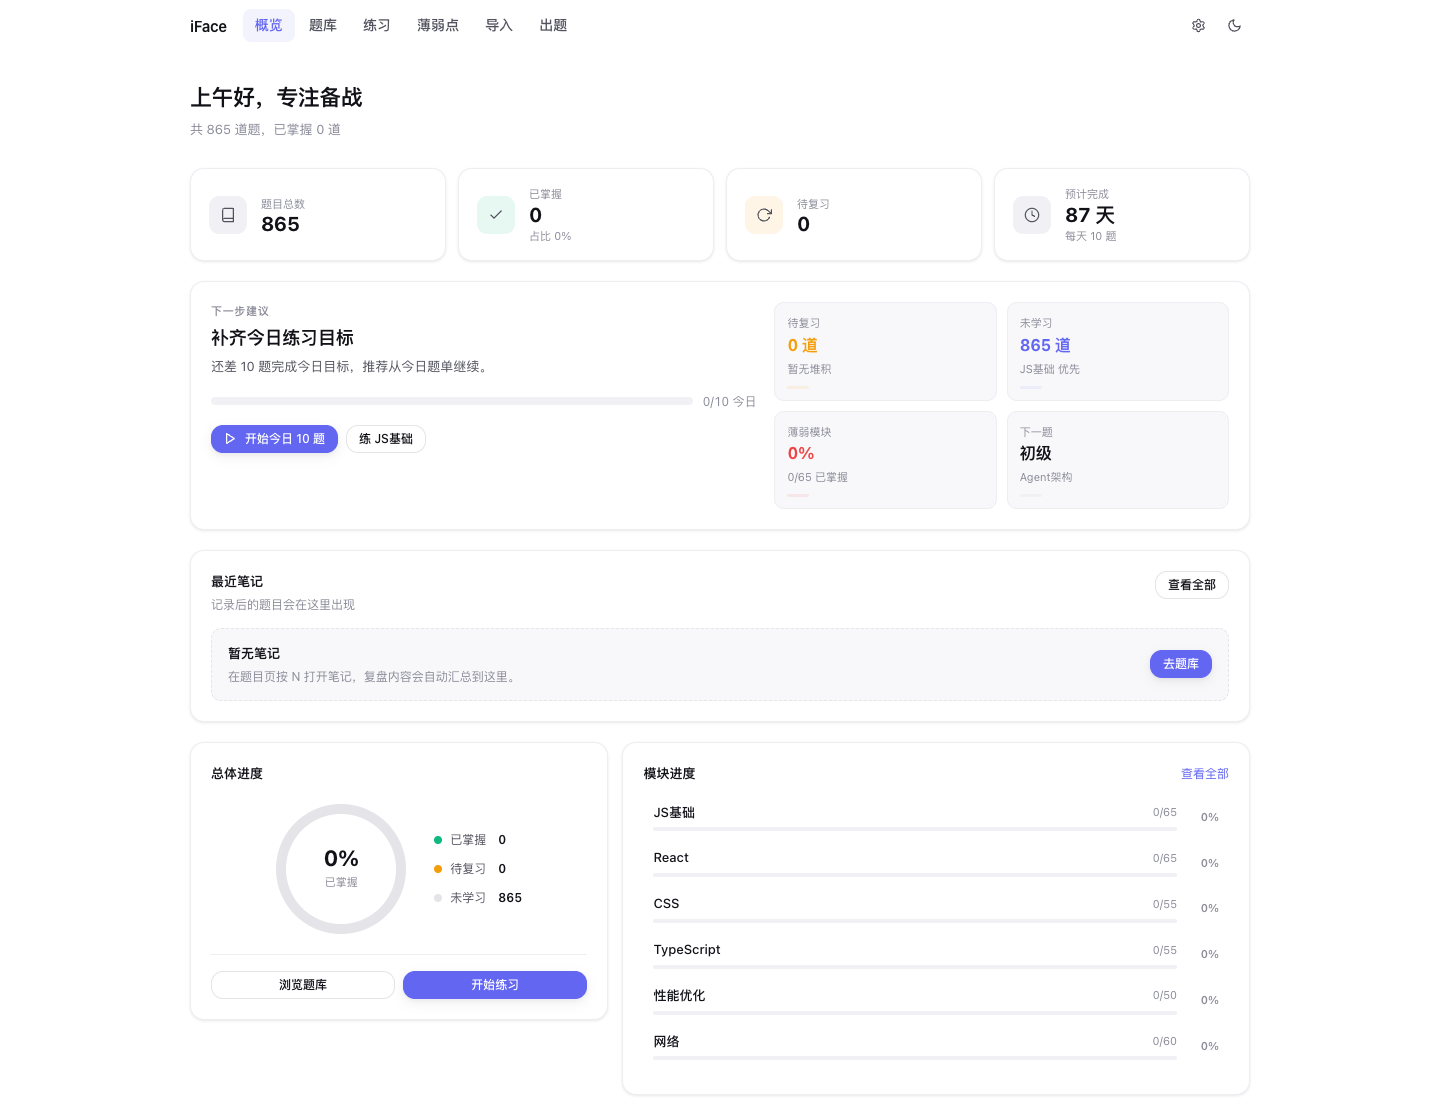
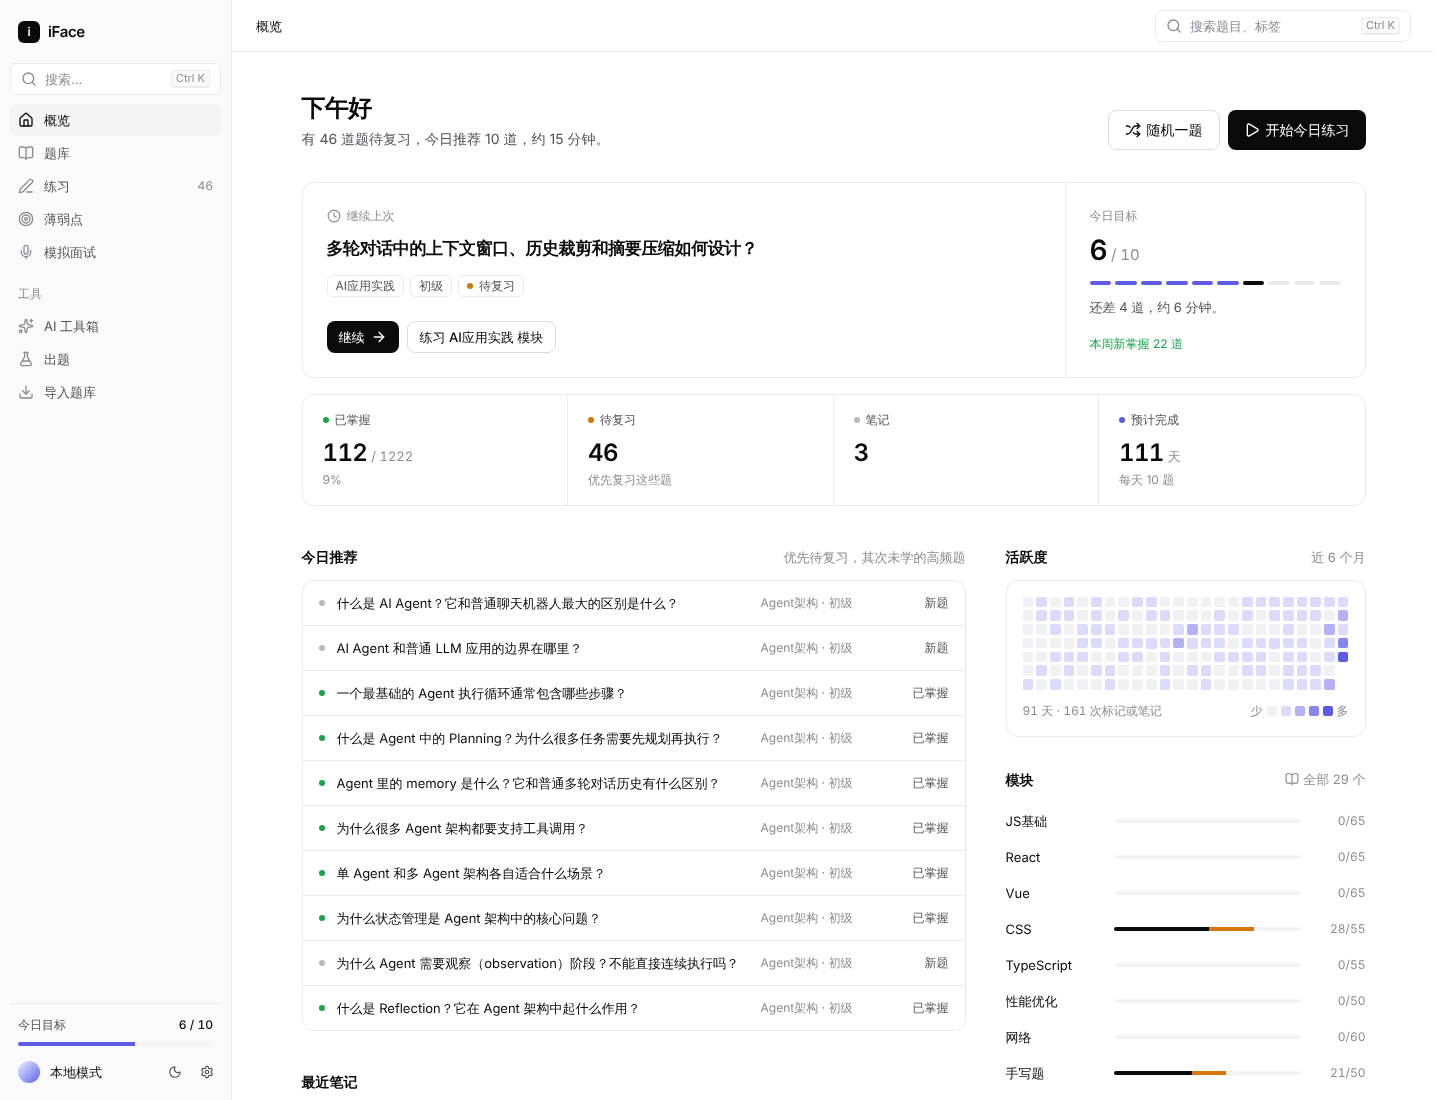
docs: update README, AGENTS.md and refactor progress for v1.5
Refresh the README feature list, usage guide and preview screenshots for
the new UI, describe the features/ layout in AGENTS.md, record progress in
REFACTOR_PLAN.md, and remove unused template assets.

diff --git a/docs/REFACTOR_PLAN.md b/docs/REFACTOR_PLAN.md
@@ -59,7 +59,7 @@
 - [x] 设计 token：颜色、字号、间距、圆角、阴影、动效，写进 Tailwind v4 `@theme`，亮色 / 暗色各一套
 - [x] 基础组件：Button、IconButton、Tag、Kbd、Input、Textarea、Select、Switch、SegmentedControl、Progress、Box/Card、EmptyState、Skeleton、Spinner
 - [x] 交互组件（Radix）：Dialog、Sheet（抽屉）、DropdownMenu、Popover、Tooltip、Tabs、Select、Toast
-- [ ] CommandPalette（⌘K）：页面重建时随全局搜索一起做
+- [x] CommandPalette（⌘K）：全局搜索题目、笔记和命令
 - [x] 应用外壳组件：Sidebar、SidebarItem、PageHeader、Breadcrumb、PageTitle（接入路由在阶段 3）
 - [x] 开发环境 `/design` 展示页，覆盖全部组件和状态，亮色 / 暗色对照
 - 验收：组件全部有类型和变体，`/design` 页截图对齐设计稿
@@ -97,32 +97,39 @@ src/
 ```
 
 - [ ] `QuestionDetail` → 页面壳不超过 400 行；划线/批注、笔记格式化、评分解析等**纯函数抽出来并补测试**
-- [ ] `SettingsDrawer` → 每个 tab 一个文件，抽出数据导入导出的 service
-- [ ] `PromptPage` / `QuestionList` / `Dashboard` / `MockInterview` / `ImportPage` 照同样方式拆
+- [x] `SettingsDrawer` → `features/settings/` 每个 tab 一个文件，数据导入导出逻辑在 `settingsData.ts`（有测试）
+- [x] `PromptPage` / `QuestionList` / `Dashboard` / `MockInterview` / `ImportPage` 照同样方式拆：页面组件 + 纯函数模块 + 单元测试
 进度：
 - [x] 应用外壳：侧边栏（桌面）+ 顶栏与抽屉菜单（移动端），设置改为全局共享
 - [x] 概览：继续上次、今日目标、统计、今日推荐、活跃度热力图、模块进度、最近笔记
 - [x] 题库：分类侧栏、搜索（含笔记）、筛选与排序、筛选标签；URL 作为唯一筛选状态
 - [x] 题目详情：6.7k 行拆成 8 个文件；新页头、题目区、吸底的掌握程度按钮、底部导航
-- [ ] 题目详情（续）：作答框、笔记抽屉、AI 抽屉、模块抽屉、批注工具条换成新组件；右侧目录栏；继续拆分 `QuestionDetailPage.tsx`（约 2.2k 行）
+- [x] 题目详情（续）：作答框、笔记抽屉、AI 抽屉、模块抽屉、批注工具条换成新组件
+- [ ] 题目详情（待做）：右侧目录栏；继续拆分 `QuestionDetailPage.tsx`（约 1.6k 行）；`AIPanel` / `LearningCheckPanel` / `MarkdownRenderer` 内联样式改为 token 类名（外观已通过变量映射统一）
 - [x] 练习：快速开始（到期复习 / 待复习 / 学新题 / 随机）、模块选择、题量与随机顺序
 - [x] 间隔复习：由现有记录字段推算（待复习次日、已掌握 7/14/30/60 天），不改存储
-- [ ] 设置（`SettingsDrawer.tsx` 3.6k 行）：按 tab 拆分并重建
-- [ ] 薄弱点、模拟面试、导入、出题、AI 工具箱、JD 诊断：目前沿用旧页面，已统一配色和页头
+- [x] 设置：改为全局对话框，按 tab 拆分并重建（学习 / AI / 数据 / 同步）
+- [x] 薄弱点、模拟面试、导入、出题、AI 工具箱、JD 诊断：全部用新组件重建，旧页面和 `LegacyPage` 已删除
+- [x] 首次引导：Radix 对话框重建，保留作者文案和 `iface_onboarding_done_v1`
+- [x] 删除旧组件库 `components/ui/index.tsx`、`components/layout/` 和 `index.css` 中不再使用的旧样式类
 - [x] 旧 CSS 变量指向新 token，未重建的页面也使用新配色和暗色模式
 - 验收：单文件原则上不超过 600 行；功能不变，E2E 通过；亮色 / 暗色截图检查
 
 ### 阶段 4：数据与性能（约 2 天）
-- [ ] PWA：题库 JSON 不再预缓存，改为 `StaleWhileRevalidate` 运行时缓存（加载过的模块离线也能用），预缓存目标降到 1.5 MB 以下
+- [x] PWA：题库与学习检测 JSON 不再预缓存，改为 `NetworkFirst` 运行时缓存；预缓存从 6.5 MB（104 项）降到 1.6 MB。同时修复同源 runtime 路由用 RegExp 永远匹配不上的问题
 - [ ] `db.ts` 收敛为 repository 层（questions / records / notes），给 SettingsDrawer 等调用方提供按需查询
-- [ ] Markdown：`rehype-highlight` 只注册题库实际用到的语言；评估 `MarkdownRenderer` chunk 体积
+- [x] 入口 chunk：设置对话框、Gist 同步按需加载，React 单独分包；入口从 613 kB 降到 325 kB，构建不再有大 chunk 警告
+- [ ] Markdown：`rehype-highlight` 会静态引入 lowlight 的 `common` 语言集，传 `languages` 无法减小体积；需要自写 rehype 插件直接用 lowlight 才能裁剪（chunk 已懒加载，优先级低）
 - [ ] 长列表（QuestionList）评估是否需要虚拟滚动
 - 验收：Lighthouse 性能分和首屏 JS 体积给出对比数据
 
 ### 阶段 5：收尾（约 1 天）
-- [ ] 更新 `AGENTS.md`、README，以及目录结构说明
-- [ ] 清理无用的资源（如 `src/assets/react.svg`、根目录 531 KB 的 `origin-icon.png`）
-- [ ] 发布 v1.5.0，`check:all` 全部通过
+- [x] 更新 `AGENTS.md`、README（功能、使用说明、预览截图），以及目录结构说明
+- [x] 修复 `scripts/check*.ts` 中指向已删除文件的检查；PWA 检查改为校验运行时缓存策略；恢复设置中的版本号展示
+- [x] 清理无用的资源：删除 `src/assets/react.svg`、`public/vite.svg`；根目录 `origin-icon.png` 是图标源文件，保留
+- [ ] 发布 v1.5.0，`check:all` 全部通过。剩余两项需要维护者完成：
+  - `check:external-records`：用真实 AI Key / Gist Token 重新运行 `smoke:external:ai`、`smoke:external:gist`（记录超过 7 天）
+  - `check:quality-gate`：为 1.5.0 写新的验收记录（现有 `SMOKE_RESULT_2026-05-05.md` 不含 `bun run test` 门禁），并同步 `package.json` 版本号与 README 徽章
 
 ## 五、分支与发布
 

diff --git a/AGENTS.md b/AGENTS.md
@@ -4,10 +4,12 @@
 
 iFace is a Vite React 19 + TypeScript app. Main code lives in `src/`:
 
-- `src/pages/` contains route screens such as `Dashboard`, `Practice`, and `QuestionDetail`.
-- `src/ui/` is the v1.5 component library (Radix primitives + Tailwind, variants via `cva`). Use it for all new UI; `src/components/ui/` holds legacy widgets that are being replaced.
+- `src/app/` holds the app shell (sidebar, mobile nav), error boundary and PWA update prompt.
+- `src/features/<feature>/` holds route screens and their logic, e.g. `dashboard/`, `question-list/`, `question-detail/`, `practice/`, `settings/`. Keep pure logic in a sibling `*.ts` module with a `*.test.ts` next to it, and keep the page component focused on layout.
+- `src/ui/` is the v1.5 component library (Radix primitives + Tailwind, variants via `cva`). Use it for all UI.
+- `src/components/ui/` holds Markdown rendering and the detail-page AI / learning-check panels that predate `src/ui`; do not add new components there.
 - `src/styles/tokens.css` defines design tokens (`bg-canvas`, `text-fg-muted`, `border-line`, `bg-accent`, …) for light and dark themes. Prefer tokens over inline `style={{}}` and raw colors.
-- `src/components/layout/` holds legacy shell UI.
+- `src/pages/DesignSystem.tsx` is the dev-only `/design` showcase.
 - `src/store/` contains app stores, and `src/hooks/` contains React hooks.
 - `src/lib/` contains IndexedDB, question loading, and sync helpers.
 - `src/types/` and `src/data/` hold shared types and schemas.
@@ -29,10 +31,11 @@ Use Bun for package and script commands.
 - `bun run format` formats files with Biome.
 - `bun run test` runs Vitest unit tests (`src/**/*.test.ts`); `bun run test:e2e` runs Playwright smoke tests in `e2e/`.
 - In `bun dev`, open `/design` to see every component and token in light and dark mode (not included in production builds).
+- `bun run check:all` is the release gate: it adds the `scripts/check*.ts` checks (version sync, question bank, backup, Gist sync, AI, PWA output, docs) and requires fresh external smoke records (`bun run smoke:external:ai` / `smoke:external:gist`, real credentials, at most 7 days old).
 
 ## Coding Style & Naming Conventions
 
-Biome is the source of truth. Use 2-space indentation, 100-character lines, single quotes, no required semicolons, trailing commas in JavaScript/TypeScript, and no trailing commas in JSON. Name components and pages in `PascalCase`, hooks as `useSomething`, and stores as `useSomethingStore`. Keep route screens in `src/pages/` and reusable pieces in `src/components/`.
+Biome is the source of truth. Use 2-space indentation, 100-character lines, single quotes, no required semicolons, trailing commas in JavaScript/TypeScript, and no trailing commas in JSON. Name components and pages in `PascalCase`, hooks as `useSomething`, and stores as `useSomethingState` (in files named `useSomethingStore.ts`). Keep route screens in `src/features/` and reusable UI in `src/ui/`.
 
 ## Testing Guidelines
 
